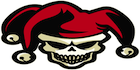
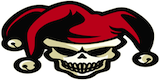
updated size

diff --git a/public/css/my-ocp-logo.css b/public/css/my-ocp-logo.css
@@ -1,5 +1,5 @@
 #header-logo {
     background-image: url("http://localhost:3000/myimage");
-    width: 190px;
+    width: 160px;
     height: 80px;
 }
